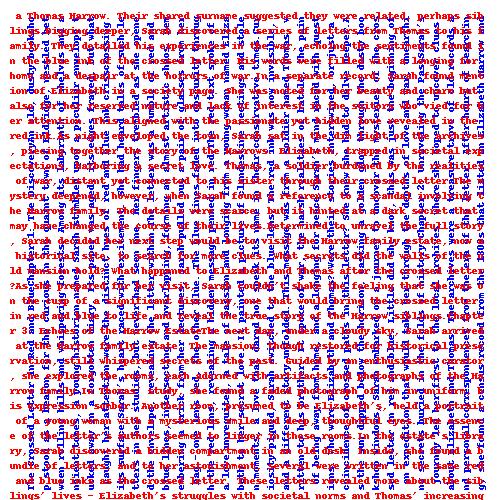
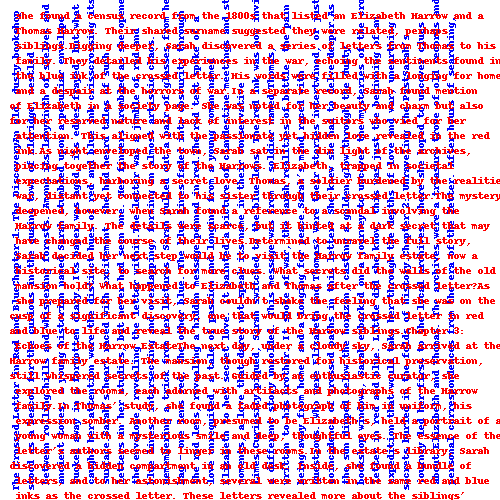
Changed text_clean function so that words are not cut off.

Changed region(s): [[0.0, 0.0, 1.0, 1.0]]

diff --git a/Crossed_Letter_Main.py b/Crossed_Letter_Main.py
@@ -58,7 +58,7 @@ def extract_text(file_path, file_type):
             case _:
                 text = "Program Error"
     except:
-        text = "Error! Text document not identified. Please try again."
+        text = "Error! Document not identified. Please try again."
     #return just a string with all the text from the file
     return text
     
@@ -69,13 +69,22 @@ def text_clean(text):
     
     # Shape test to fit for the desired image
     for i in range(0, len(cleaned_text), 80):
-        if i % 80 == 0:
-            cleaned_text = cleaned_text[:i] + '\n' + cleaned_text[i:]
-    
+        if i + 1 < len(cleaned_text):  # Ensure i+1 is a valid index
+            if cleaned_text[i] in ' .,?!:;':
+                cleaned_text = cleaned_text[:i] + '\n' + cleaned_text[i+1:]
+            elif cleaned_text[i].isalpha() and cleaned_text[i+1] in ' .,?!:;':
+                cleaned_text = cleaned_text[:i+1] + '\n' + cleaned_text[i+1:]
+            elif cleaned_text[i].isalpha() and cleaned_text[i+1].isalpha():
+                for j in range(i, max(0, i-80), -1):  # Iterate backwards from i
+                    if cleaned_text[j] == ' ':
+                        cleaned_text = cleaned_text[:j] + '\n' + cleaned_text[j:]
+                        break  # Exit the loop once a space is found
+            
+
     # Count the total number of lines and determine how many images will be processed
     total_lines = len(cleaned_text.split('\n'))
     # split lines after you reach 32 lines so the \n fits the image
-    half_length = 32 #Set to a specific number to fit the desired image
+    half_length = 30 #Set to a specific number to fit the desired image
     total_image = round(total_lines // (half_length * 2))
 
     #create a red and blue list to hold the text
@@ -92,8 +101,6 @@ def text_clean(text):
             counter += 1
         cleaned_text_lines = cleaned_text_lines[(half_length*2):]
     return blue_list, red_list, total_image
-
-
 
 '''
 The generate_crossed_letter function is designed to create an image that 
@@ -193,6 +200,7 @@ def main():
 
     # Generate crossed letter
     for i in range(num_of_images):
+        print(blue_list[i], "\n", "\n", red_list[i])
         generate_crossed_letter(blue_list[i], red_list[i], i)
     
     print("Crossed Letter Generated!")
